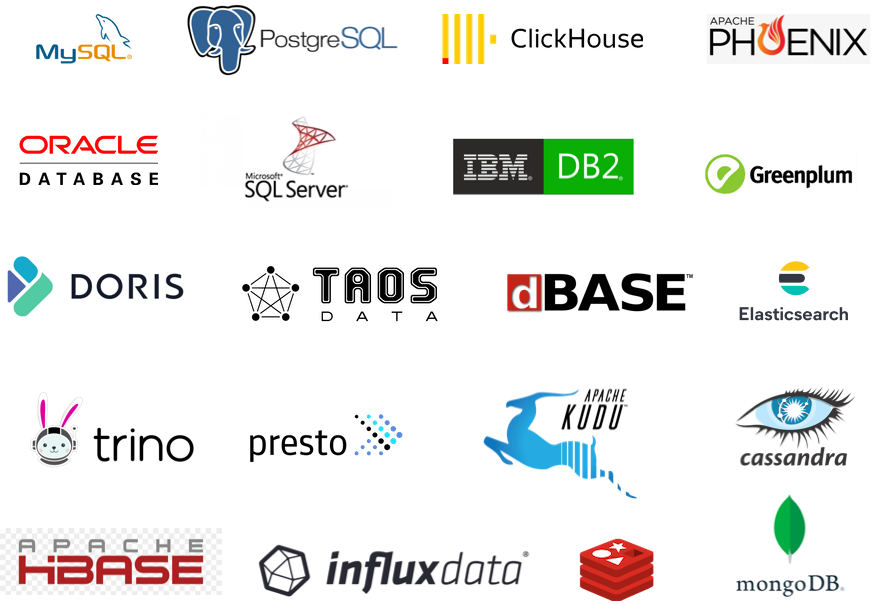
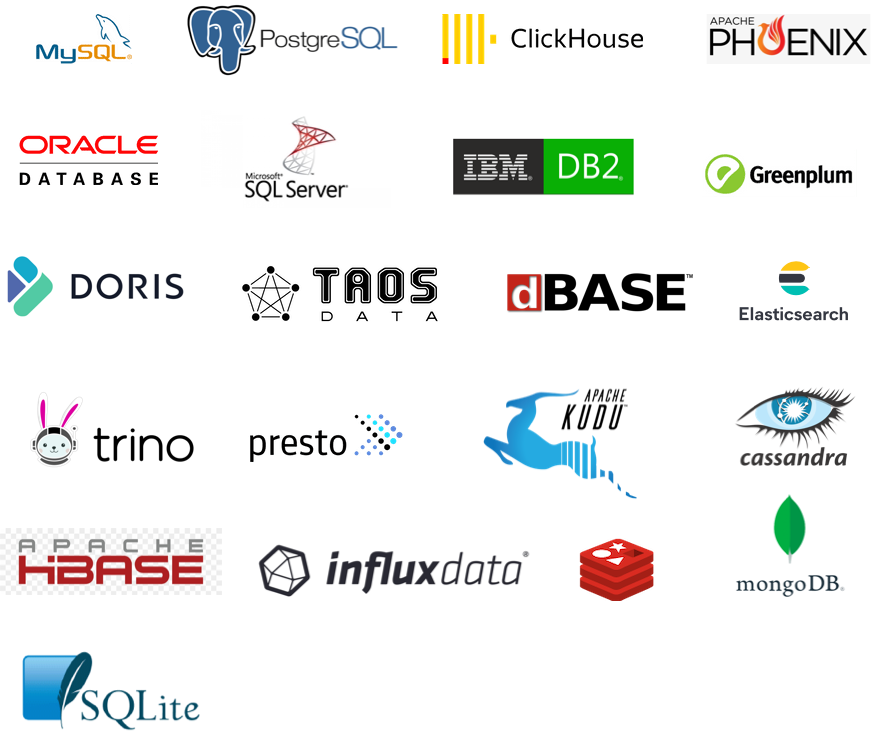
[docs] Updates document for sqlite reader/writer plugin

diff --git a/README.md b/README.md
@@ -18,14 +18,8 @@
 
 English | [简体中文](README_zh.md)
 
-# I'm changing DataX to Addax
-
-We will use new brand `addax` since `4.0.0` and therefore no longer compatible with prior versions.
-
-As of `3.2.1`, the package class names have been changed and are therefore no longer compatible with `3.1.x` versions.
 
 The project, originally from Ali's [DataX]((https://github.com/alibaba/datax)), has been streamlined and adapted, as described below
-
 
 ## Supported databases
 
@@ -55,7 +49,7 @@ The project, originally from Ali's [DataX]((https://github.com/alibaba/datax)), 
 | PostgreSQL          | YES    | YES    | postgresqlreader/postgresqlwriter       |                                                                                            |
 | Trino               | YES    | YES    | rdbmsreader/rdbmswriter                 | [trino( formerly PrestoSQL)](https://trino.io)                                             |
 | Redis               | YES    | YES    | redisreader/rediswriter                 |                                                                                            |
-| SQLite              | YES    | NO     | sqlitereader                            | |
+| SQLite              | YES    | YES    | sqlitereader/sqlitewriter               | |
 | SQL Server          | YES    | YES    | sqlserverreader/sqlserverwriter         |                                                                                            |
 | TDengine            | YES    | YES    | tdenginereader/tdenginewriter           | [TDengine](https://www.taosdata.com/cn/)                                                   |
 | TDH Inceptor2       | YES    | YES    | rdbmsreader/rdbmswriter                 | [Transwarp TDH](http://transwarp.cn/transwarp/product-TDH.html?categoryId=18) 5.1 or later |

diff --git a/README_zh.md b/README_zh.md
@@ -107,7 +107,7 @@
 | PostgreSQL       | 支持 | 支持   | postgresqlreader/postgresqlwriter       |                                                                                      |
 | PrestoSQL        | 支持 | 支持   | rdbmsreader/rdbmswriter                 | [trino(原PrestoSQL)](https://trino.io) 310以上                                       |
 | Redis            | 支持 | 支持   | redisreader/rediswriter                 |                                                                                      |
-| SQLite           | 支持 | 不支持  | sqlitereader                            | |
+| SQLite           | 支持 | 支持   | sqlitereader/sqlitewriter               | |
 | SQL Server       | 支持 | 支持   | sqlserverreader/sqlserverwriter         |                                                                                      |
 | TDengine         | 支持 | 支持   | tdenginereader/tdenginewriter           | 支持 [TDengine](https://www.taosdata.com/cn/) 数据库读写                             |
 | TDH Inceptor2    | 支持 | 支持   | rdbmsreader/rdbmswriter                 | [星环 TDH](http://transwarp.cn/transwarp/product-TDH.html?categoryId=18) 5.1以上版本 |

diff --git a/.github/ISSUE_TEMPLATE/release_notes.md b/.github/ISSUE_TEMPLATE/release_notes.md
@@ -100,6 +100,8 @@ assignees: wgzhao
 
 ### redis writer
 
+### sqlite writer
+
 ### sqlserver writer
 
 ### stream writer
